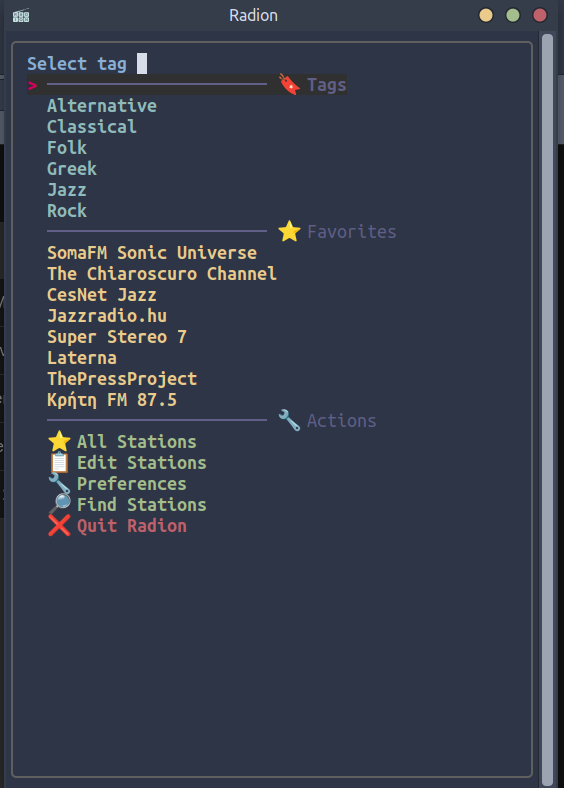
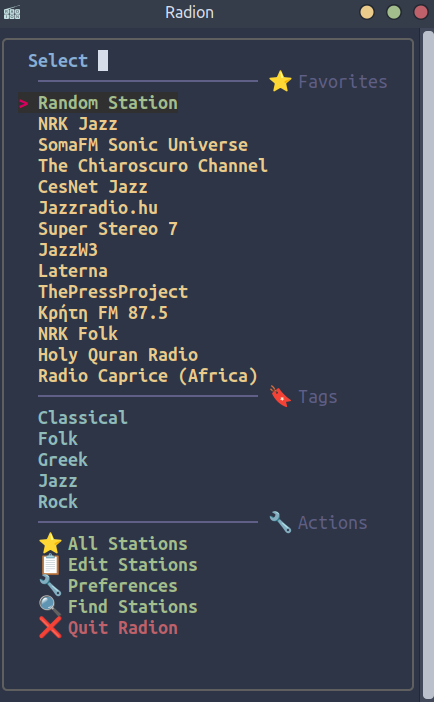
introduce random station feature

diff --git a/README.md b/README.md
@@ -11,13 +11,15 @@ Radion can be costumized as far as the station selecting program is concerned. T
 - **rofi**
 - **dmenu**
 
-Through the main menu, the user can :
+Through the menus, the user can :
 
+- Select directly  a  **Favorite Station**.
+- Select a **random station**.
 - Select a **tag** to pick a station from
 
 ![tag](screenshots/tag.png)
 
-- Select directly  a  **Favorite Station**.
+
 
 - **Edit Stations** and their tags, by editing the specific file:
 
@@ -221,9 +223,9 @@ brew install mpv
 
 ![1fzf](screenshots/1fzf.png){width=300}
 
-![1rofi](screenshots/1rofi.png){width=500}
+![1rofi](screenshots/1rofi.png){width=300}
 
-![1dmenu](screenshots/1dmenu.png){width=500}
+![1dmenu](screenshots/1dmenu.png){width=300}
 
 ---
 
